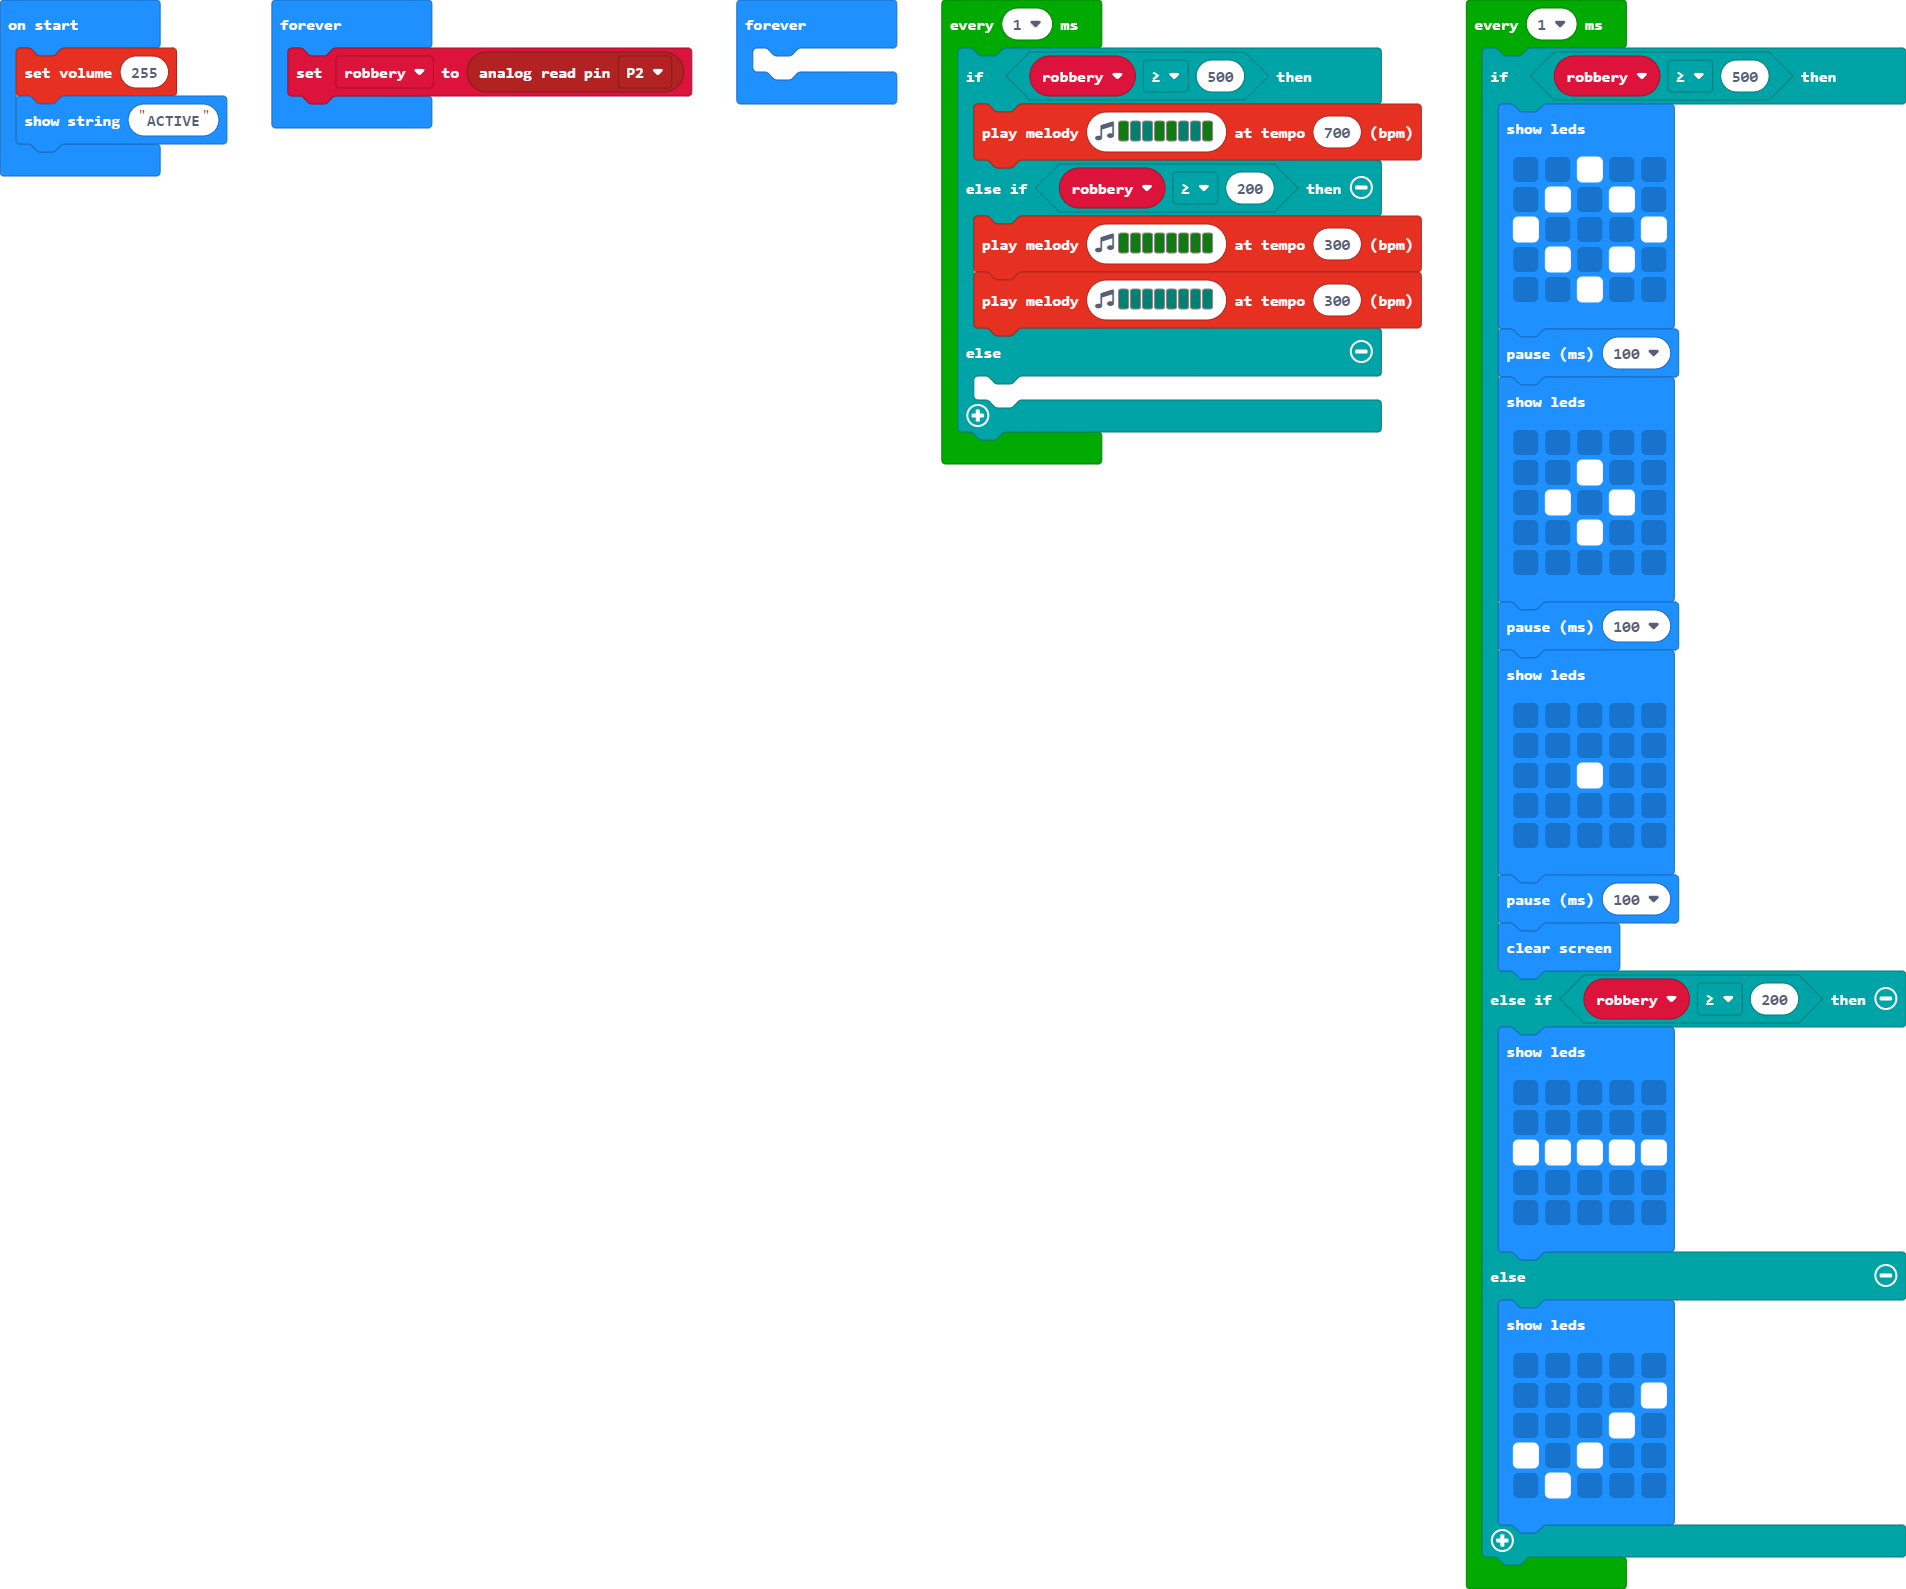
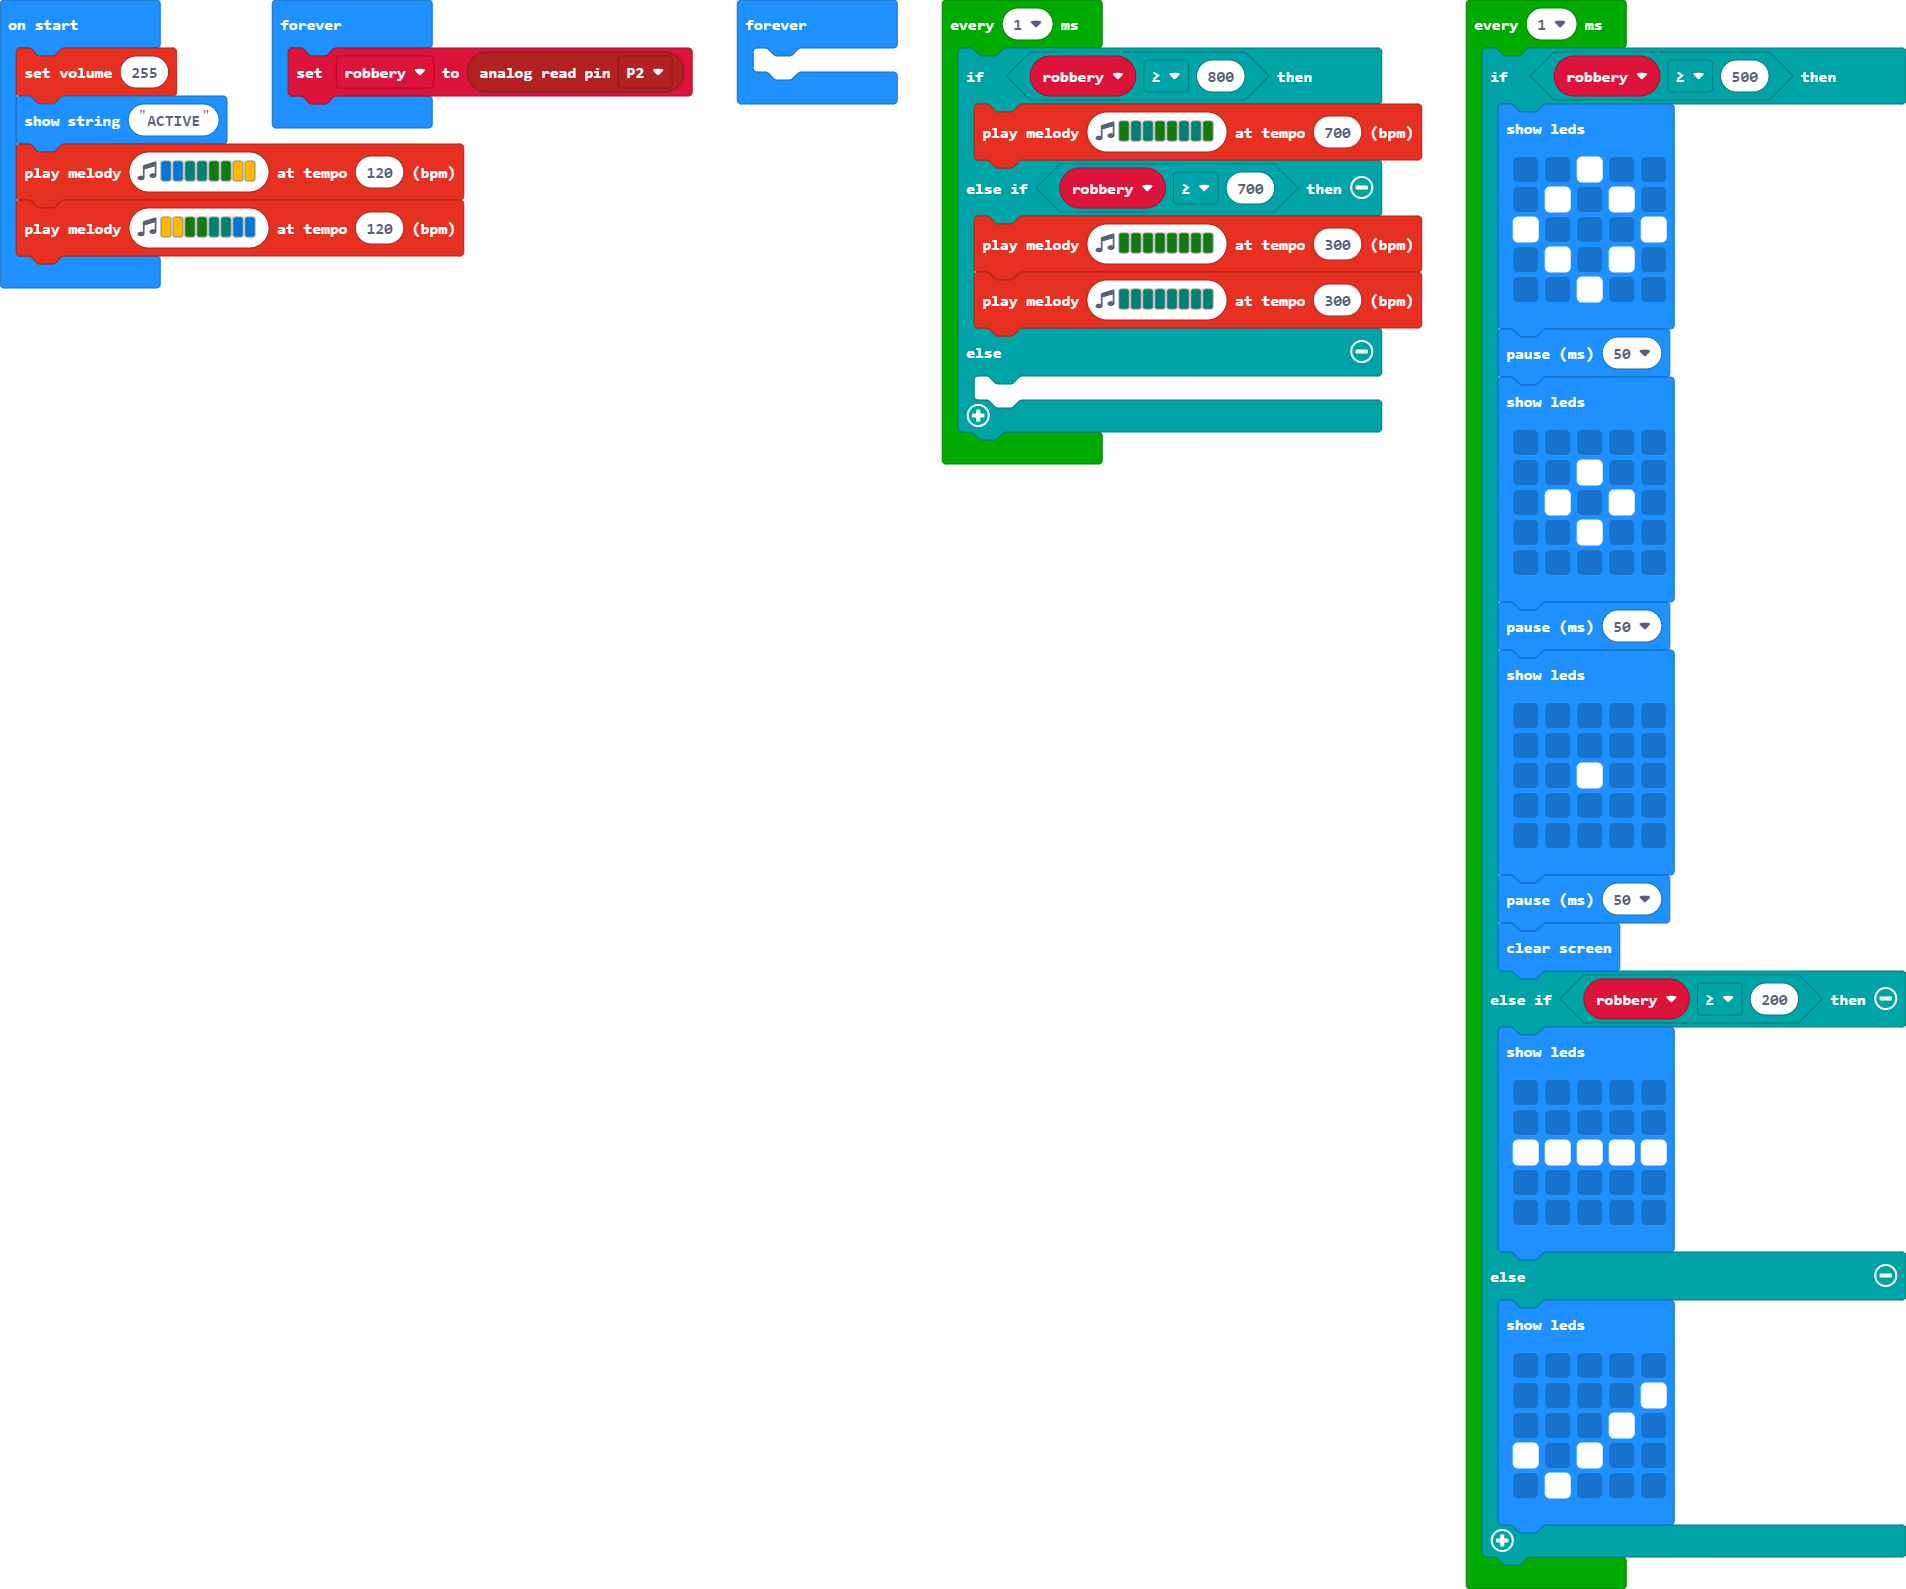
Update main.blocks, main.ts

diff --git a/main.ts b/main.ts
@@ -1,10 +1,12 @@
 let robbery = 0
 music.setVolume(255)
 basic.showString("ACTIVE")
+music.playMelody("E E F F G G A A ", 120)
+music.playMelody("A A G G F F E E ", 120)
 loops.everyInterval(1, function () {
-    if (robbery >= 500) {
+    if (robbery >= 800) {
         music.playMelody("G F F G G F F G ", 700)
-    } else if (robbery >= 200) {
+    } else if (robbery >= 700) {
         music.playMelody("G G G G G G G G ", 300)
         music.playMelody("F F F F F F F F ", 300)
     } else {
@@ -20,7 +22,7 @@ loops.everyInterval(1, function () {
             . # . # .
             . . # . .
             `)
-        basic.pause(100)
+        basic.pause(50)
         basic.showLeds(`
             . . . . .
             . . # . .
@@ -28,7 +30,7 @@ loops.everyInterval(1, function () {
             . . # . .
             . . . . .
             `)
-        basic.pause(100)
+        basic.pause(50)
         basic.showLeds(`
             . . . . .
             . . . . .
@@ -36,7 +38,7 @@ loops.everyInterval(1, function () {
             . . . . .
             . . . . .
             `)
-        basic.pause(100)
+        basic.pause(50)
         basic.clearScreen()
     } else if (robbery >= 200) {
         basic.showLeds(`
